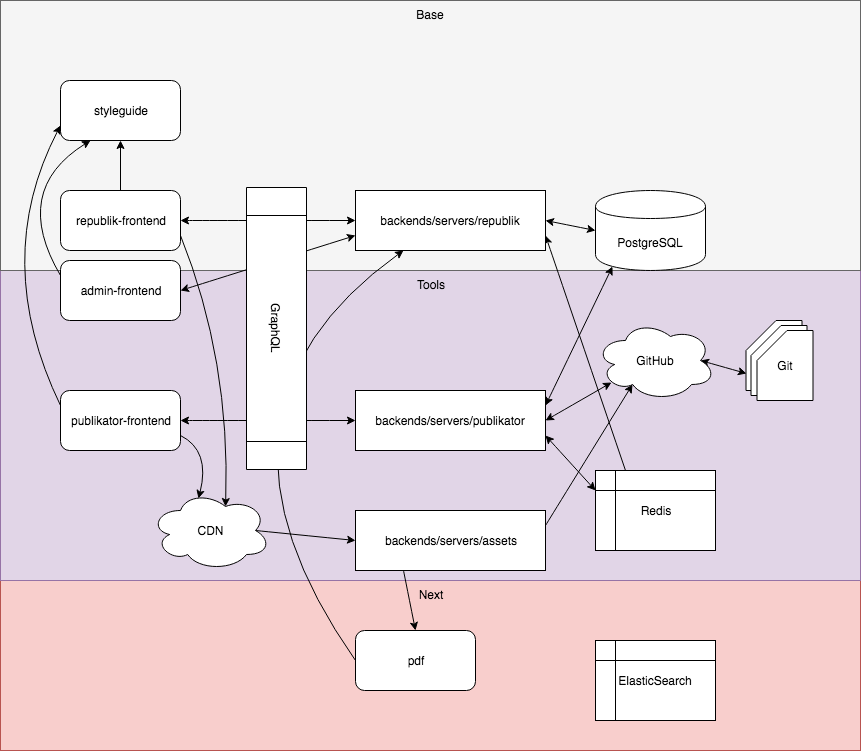
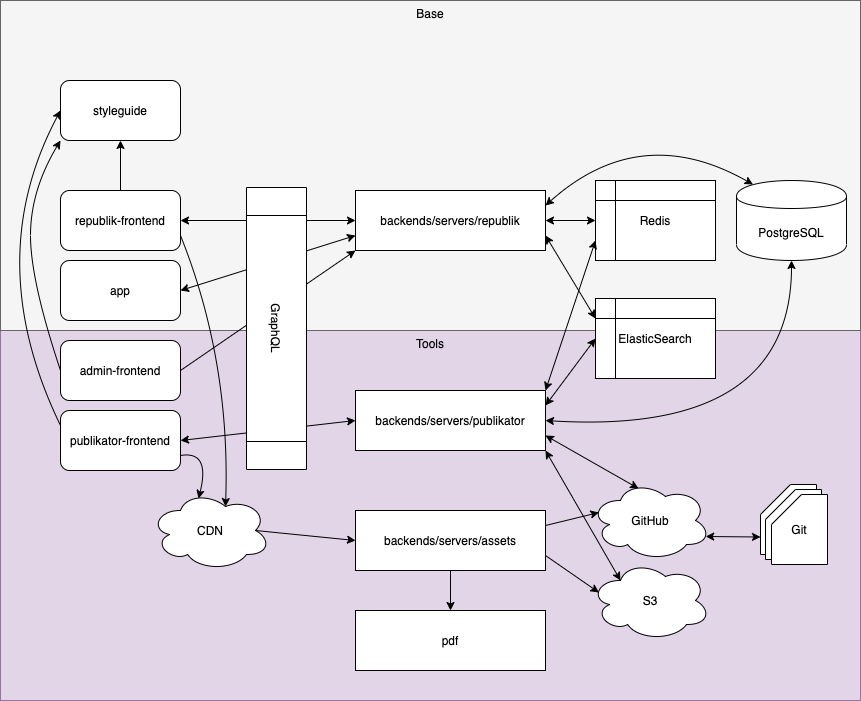
update overview chart

diff --git a/guides/overview.md b/guides/overview.md
@@ -12,7 +12,7 @@ Core Tech:
 - Git(Hub) (hosted git with a social network)
 - remark (markdown processor)
 
-![App Overview](./overview.png)
+![System Overview](./overview.png)
 
 <details><summary>Notes</summary>
 
@@ -22,6 +22,7 @@ Ecommerce and Users
 
 styleguide            postgres
 republik-frontend     backends/servers/republik
+pdf                   ElasticSearch
 
 ## Tools
 
@@ -32,10 +33,6 @@ mdast                 Git(Hub)
 publikator-frontend   backends/servers/publikator
                       backends/servers/assets
                       redis
-
-## Next
-
-pdf                   ElasticSearch
 
 </details>
 
